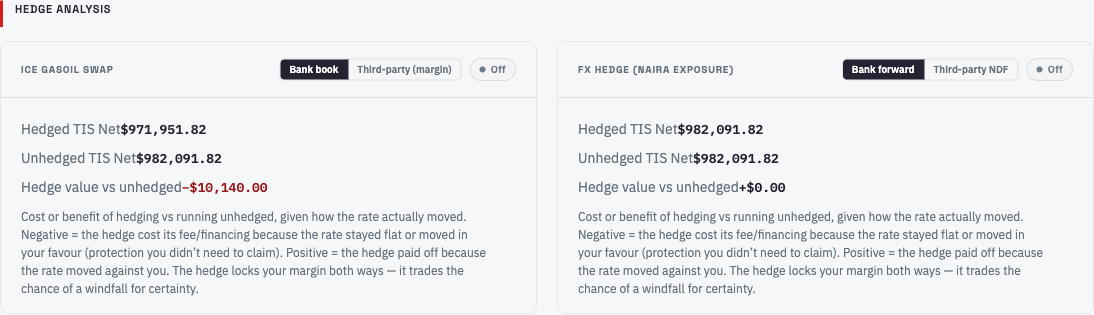
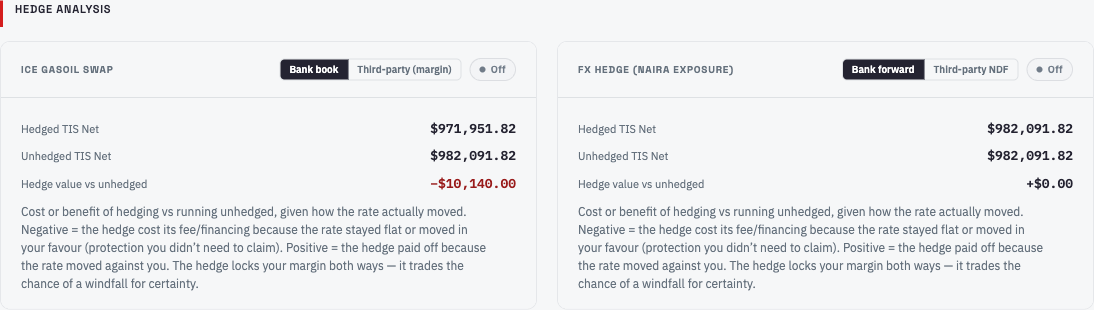
fix(redesign): hedge info-row justification, extend to Equity Structure branch
.h-cmp .info-row was missing from the space-between flex selector list, so
Hedge comparison rows (Hedged/Unhedged TIS Net, Hedge value vs unhedged)
collided with no gap. Also found and fixed the same gap in renderPartner's
TIS self-funded "Equity Structure" branch (.info-block .info-row), which was
never covered by any of the three governed ancestors either. Pure CSS,
selector-list extension only — no JS/figure/sign-logic touched.

249/249 tests, guard a90288...408162 byte-identical before and after.

Claude-Session: https://claude.ai/code/session_01SfhYGVgqiXcyCZyxbKwm1d

diff --git a/scripts/build-interactive.js b/scripts/build-interactive.js
@@ -817,7 +817,9 @@ body { font-feature-settings: "kern" 1, "liga" 1; text-rendering: optimizeLegibi
 .h-detail-inner { padding: 14px 18px; border-bottom: 1px solid var(--border); }
 /* Fix info-row layout in interactive card contexts (hedge detail + partner two-col) */
 .h-detail .info-row,
-.two-col-grid .info-row {
+.two-col-grid .info-row,
+.h-cmp .info-row,
+.info-block .info-row {
   display: flex;
   justify-content: space-between;
   align-items: baseline;

diff --git a/reports/redesign-stage-3-partner-hedge.md b/reports/redesign-stage-3-partner-hedge.md
@@ -209,3 +209,67 @@ new needs adding to that list since nothing new animates.
 
 Branch `redesign/stage-3-partner-hedge`, branched from `redesign/stage-2-result-tables` tip
 (`16b7eff`). Not merged to any earlier stage branch or `main`; not pushed, per instructions.
+
+## Fix — hedge info-row justification
+
+**Bug**: `.h-cmp .info-row` (the Hedge comparison block's rows, converted onto the shared
+`.info-row` markup earlier in this stage) was never added to the flex/`justify-content:
+space-between` selector list at `scripts/build-interactive.js:819` — that rule only listed
+`.h-detail .info-row` and `.two-col-grid .info-row`. Result: the hedge comparison rows (Hedged
+TIS Net, Unhedged TIS Net, Hedge value vs unhedged) rendered as unstyled block-level `<div>`s —
+label and value stacked/collided with no gap or right-alignment. Partner's `.two-col-grid` rows
+were unaffected; only the Hedge cards.
+
+**Fix**: extended the existing selector list (no duplicated rule, no new properties) —
+```css
+.h-detail .info-row,
+.two-col-grid .info-row,
+.h-cmp .info-row,
+.info-block .info-row {
+```
+Pure CSS, one selector-list edit. No JS, no figure, no `pos`/`neg`/`neg`-class sign logic touched.
+
+**Step 2 — swept for other ungoverned `.info-row` usage**: grepped every `infoRow()` call site.
+Found one more instance of the identical gap: `renderPartner`'s `ep === 'TIS'` branch (the
+self-funded "Equity Structure" card, `scripts/build-interactive.js:3249-3260`) renders its three
+`infoRow()` calls (Cargo value / Partner funding (self) / Standalone = Adjusted = TIS net) inside
+`<div class="card card-body"><div class="info-block">`, not under `.h-detail`, `.two-col-grid`,
+or `.h-cmp` — same missing-flex symptom. This is squarely partner-family (the other branch of the
+same `renderPartner` function), so per the brief's "fix only if it is a hedge/partner-family row"
+instruction, `.info-block .info-row` was added to the same selector list (see diff above).
+`.info-block` is used exclusively inside `renderPartner` and `renderHedge`'s `h-detail-inner`
+(confirmed by grep — no other section uses it), so this addition is precise: it closes the gap on
+the previously-orphaned TIS branch and is a harmless no-op duplicate everywhere else it already
+matched via `.h-detail`/`.two-col-grid`.
+
+No other `.info-row` call site was found outside these four governed ancestors.
+
+**Not fixed (noted, not in scope for this low-effort pass)**: the TIS-branch's three rows still
+don't pick up the Stage 3 color/mono-font token treatment (`--g-text-slate` label / `--f-mono`
+`--fs-data` figure) that `.h-detail`/`.two-col-grid`/`.h-cmp` rows get from the separate rule at
+line ~1651 — that rule's selector list was intentionally left untouched here since the reported
+defect was specifically the layout/justification gap, not typography. Flagged as a possible
+follow-up, not fixed in this pass.
+
+### Engine safety — baseline vs after (this fix)
+
+| | Suite (`node test/invariants.js`) | All-USD guard (`node scripts/fingerprint.js`) |
+|---|---|---|
[2 lines of base64/hex data omitted]
+
+Byte-identical, as expected for a pure-CSS fix.
+
+### Re-screenshots
+
+`after/desktop-hedge.png` and `after/narrow-hedge.png` were overwritten in place (the `before/`
+pair is untouched — it still reflects Stage 2's pre-Stage-3 look, unaffected by this fix). Hashes
+confirmed to differ from the previous (broken-justification) versions:
+
+| File | Old `after/` sha256 (broken justification) | New `after/` sha256 (fixed) |
+|---|---|---|
[2 lines of base64/hex data omitted]
+
+Both confirmed visually: label left / value right with proper gap, and the negative "Hedge value
+vs unhedged" (`−$10,140.00`) still renders in loss-red (`--g-loss`), unaffected by the layout fix.
